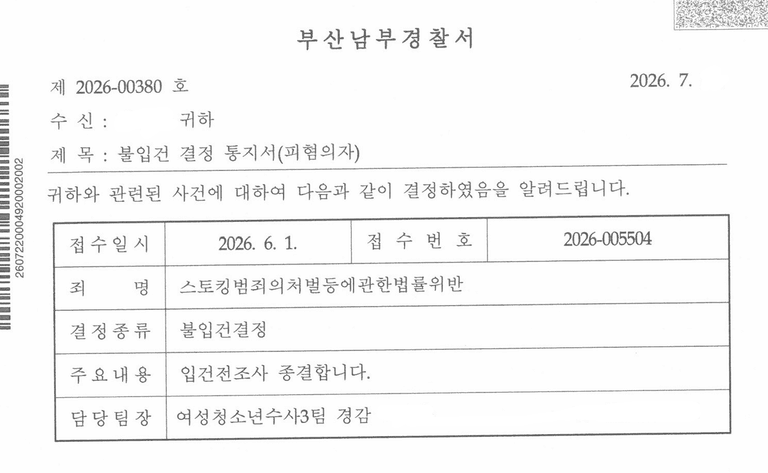
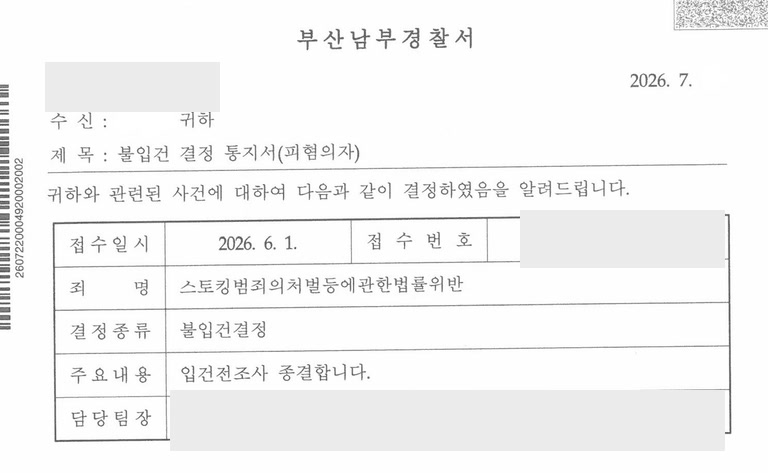
Secure public case board and publish redacted decisions

diff --git a/board.html b/board.html
@@ -16,7 +16,6 @@
 <link rel="preconnect" href="https://fonts.googleapis.com">
 <link rel="preconnect" href="https://fonts.gstatic.com" crossorigin>
 <link href="https://fonts.googleapis.com/css2?family=Noto+Serif+KR:wght@500;600;700&family=Noto+Sans+KR:wght@300;400;500;600;700&family=Playfair+Display:wght@600;700&display=swap" rel="stylesheet">
-<link href="https://cdnjs.cloudflare.com/ajax/libs/quill/1.3.7/quill.snow.min.css" rel="stylesheet">
 <style>
 :root{
   --ink:#111827;--muted:#667085;--line:#e4e7ec;--paper:#fff;--bg:#f6f7f9;
@@ -108,8 +107,8 @@ input:focus,textarea:focus{border-color:var(--gold);box-shadow:0 0 0 3px rgba(20
 .chip.active b{opacity:.85;}
 @media(max-width:720px){
   .board-controls{flex-direction:column;align-items:stretch;}
-  .board-search{max-width:none;}
-  .board-cats{overflow-x:auto;flex-wrap:nowrap;padding-bottom:3px;-webkit-overflow-scrolling:touch;}
+  .board-search{flex:0 0 auto;max-width:none;}
+  .board-cats{width:100%;max-width:100%;min-width:0;overflow-x:auto;flex-wrap:nowrap;padding-bottom:3px;-webkit-overflow-scrolling:touch;}
   .chip{flex:0 0 auto;}
 }
 </style>
@@ -150,7 +149,6 @@ input:focus,textarea:focus{border-color:var(--gold);box-shadow:0 0 0 3px rgba(20
     <div class="body">
       <div class="toolbar">
         <div class="count" id="count">총 0건</div>
-        <button class="write" type="button" id="writeBtn">글쓰기</button>
       </div>
       <div class="board-controls">
         <div class="board-search">
@@ -161,19 +159,6 @@ input:focus,textarea:focus{border-color:var(--gold);box-shadow:0 0 0 3px rgba(20
       </div>
       <div class="list" id="list"></div>
       <div class="empty" id="boardEmpty" style="display:none;border-bottom:0;">검색 결과가 없습니다. 다른 키워드나 분야를 선택해 보세요.</div>
-      <form class="form" id="form">
-        <h2 id="formTitle">글쓰기</h2>
-        <label for="subject">제목</label>
-        <input id="subject" name="subject" type="text" autocomplete="off" placeholder="제목을 입력하세요">
-        <label>내용</label>
-        <div id="editor-container"><div id="editor"></div></div>
-        <div class="char-count" id="charCount">0자</div>
-        <textarea id="content" name="content" style="display:none"></textarea>
-        <div class="form-actions">
-          <button class="secondary" type="button" id="cancelBtn">취소</button>
-          <button class="submit" type="submit">등록</button>
-        </div>
-      </form>
       <p class="seo-copy"><strong>법률사무소 위드윤</strong>은 형사사건, 성범죄, 스토킹, 불법촬영, 이혼·재산분할 등 실제 상담에서 자주 다뤄지는 쟁점을 중심으로 법률정보를 정리합니다.</p>
     </div>
   </section>
@@ -246,24 +231,25 @@ input:focus,textarea:focus{border-color:var(--gold);box-shadow:0 0 0 3px rgba(20
     <li><a href="/blog/drunk-driving-acquittal" style="color:#111a2e;font-size:15px;font-weight:700;text-decoration:none;">음주운전 무죄 판결 — 위법수집증거 배척 실제 사례</a></li>
     <li><a href="/blog/no-charge-5-counts" style="color:#111a2e;font-size:15px;font-weight:700;text-decoration:none;">5개 혐의 동시 고소 — 전부 무혐의(불송치) 방어 성공사례</a></li>
     <li><a href="/blog/sexual-crime-case-results" style="color:#111a2e;font-size:15px;font-weight:700;text-decoration:none;">성범죄 실제 해결사례 — 2심 무죄·강제추행 기소유예</a></li>
+    <li><a href="/blog/special-assault-deferred-prosecution-case" style="color:#111a2e;font-size:15px;font-weight:700;text-decoration:none;">특수상해 — 동종 전력에도 기소유예</a></li>
+    <li><a href="/blog/public-official-stalking-no-booking-case" style="color:#111a2e;font-size:15px;font-weight:700;text-decoration:none;">공무원 스토킹 신고 — 정식 입건 전 종결</a></li>
+    <li><a href="/blog/military-cruelty-non-prosecution-case" style="color:#111a2e;font-size:15px;font-weight:700;text-decoration:none;">군형법상 가혹행위 — 불송치 각하</a></li>
+    <li><a href="/blog/disabled-quasi-rape-no-charge-case" style="color:#111a2e;font-size:15px;font-weight:700;text-decoration:none;">장애인 유사강간 — 혐의없음 불송치</a></li>
+    <li><a href="/blog/juvenile-molestation-no-hearing-case" style="color:#111a2e;font-size:15px;font-weight:700;text-decoration:none;">소년 강제추행·폭행·협박 — 심리불개시</a></li>
+    <li><a href="/blog/cctv-molestation-deferred-prosecution-case" style="color:#111a2e;font-size:15px;font-weight:700;text-decoration:none;">CCTV 강제추행 — 기소유예</a></li>
   </ul>
 </nav>
 </noscript>
 <!-- ▲ SEO 정적 링크 끝 ▲ -->
 
-<script src="https://cdnjs.cloudflare.com/ajax/libs/quill/1.3.7/quill.min.js"></script>
 <script>
 (function(){
   var labels = { case:'성공사례', law:'법률칼럼', press:'언론' };
-  var API = 'https://with-yoon-api.omd0154.workers.dev';
   var params = new URLSearchParams(location.search);
   var current = labels[params.get('type')] ? params.get('type') : 'case';
   var tabs = Array.prototype.slice.call(document.querySelectorAll('.tab'));
   var list = document.getElementById('list');
   var count = document.getElementById('count');
-  var form = document.getElementById('form');
-  var titleInput = document.getElementById('subject');
-  var formTitle = document.getElementById('formTitle');
 
   var pressData = [
     {title:'유령 상간남, 월급으로 위자료 받는 법', date:'2026', source:'로톡뉴스', externalUrl:'https://lawtalknews.co.kr/article/IJ3DZ9BHT4UA', content:''},
@@ -288,10 +274,6 @@ input:focus,textarea:focus{border-color:var(--gold);box-shadow:0 0 0 3px rgba(20
     {title:'CCTV가 본 진실, 지하철 폭행 누명 벗었지만…', date:'2026.03.12', source:'로톡뉴스', externalUrl:'https://lawtalknews.co.kr/article/PYI29IY6C8SN', content:''}
   ];
 
-  function today(){
-    var n = new Date();
-    return n.getFullYear()+'.'+String(n.getMonth()+1).padStart(2,'0')+'.'+String(n.getDate()).padStart(2,'0');
-  }
   function esc(s){
     return String(s||'').replace(/[&<>"']/g,function(c){return{'&':'&amp;','<':'&lt;','>':'&gt;','"':'&quot;',"'":'&#39;'}[c];});
   }
@@ -429,12 +411,11 @@ input:focus,textarea:focus{border-color:var(--gold);box-shadow:0 0 0 3px rgba(20
       .map(function(w){ return w.it; });
   }
 
-  function render(seeds, apiItems){
+  function render(items){
     var titleMap = {case:'성공사례', law:'법률칼럼', press:'언론'};
     document.getElementById('boardTitle').textContent = titleMap[current]||'칼럼';
     tabs.forEach(function(t){ t.classList.toggle('active', t.dataset.type===current); });
-    formTitle.textContent = labels[current]+' 글쓰기';
-    var all = (seeds||[]).concat(apiItems||[]);
+    var all = items || [];
     count.textContent = '총 '+all.length+'건';
     if(!all.length){
       list.innerHTML = '<div class="row head"><div class="cell">번호</div><div class="cell">제목</div><div class="cell date">작성일</div></div><div class="empty">등록된 게시글이 없습니다.</div>';
@@ -448,7 +429,6 @@ input:focus,textarea:focus{border-color:var(--gold);box-shadow:0 0 0 3px rgba(20
         +'<div class="cell">'+(all.length-i)+'</div>'
         +'<div class="cell title">'+esc(item.title)
         +(item.source?'<span class="source">'+esc(item.source)+'</span>':'')
-        +(!item._seed&&item.id?' <button class="del" onclick="event.preventDefault();event.stopPropagation();wyDelete('+item.id+')">삭제</button>':'')
         +'</div>'
         +'<div class="cell date">'+esc(item.date)+'</div>'
         +'</a>';
@@ -462,37 +442,13 @@ input:focus,textarea:focus{border-color:var(--gold);box-shadow:0 0 0 3px rgba(20
     list.innerHTML = '<div class="empty">불러오는 중...</div>';
 
     if(current === 'law'){
-      var lawSeeds = [];
-      var apiDone = false, seedDone = false;
-      var apiItems = [];
-
-      loadLawPosts(function(items){
-        lawSeeds = items;
-        seedDone = true;
-        if(apiDone) render(lawSeeds, apiItems);
-      });
-      fetch(API+'/api/posts?type=law')
-        .then(function(r){ return r.json(); })
-        .then(function(data){ apiItems = Array.isArray(data)?data:[]; apiDone=true; if(seedDone) render(lawSeeds, apiItems); })
-        .catch(function(){ apiDone=true; if(seedDone) render(lawSeeds, []); });
+      loadLawPosts(render);
 
     } else if(current === 'press'){
-      render(pressData, []);
+      render(pressData);
 
     } else {
-      var caseSeeds = [];
-      var caseApiDone = false, caseSeedDone = false;
-      var caseApiItems = [];
-
-      loadCasePosts(function(items){
-        caseSeeds = items;
-        caseSeedDone = true;
-        if(caseApiDone) render(caseSeeds, caseApiItems);
-      });
-      fetch(API+'/api/posts?type='+current)
-        .then(function(r){ return r.json(); })
-        .then(function(data){ caseApiItems = Array.isArray(data)?data:[]; caseApiDone=true; if(caseSeedDone) render(caseSeeds, caseApiItems); })
-        .catch(function(){ caseApiDone=true; if(caseSeedDone) render(caseSeeds, []); });
+      loadCasePosts(render);
     }
   }
 
@@ -500,7 +456,6 @@ input:focus,textarea:focus{border-color:var(--gold);box-shadow:0 0 0 3px rgba(20
     tab.addEventListener('click', function(){
       current = tab.dataset.type;
       history.replaceState(null,'','?type='+current);
-      form.classList.remove('open');
       var s = document.getElementById('boardSearch');
       if(s) s.value = '';
       load();
@@ -509,47 +464,6 @@ input:focus,textarea:focus{border-color:var(--gold);box-shadow:0 0 0 3px rgba(20
 
   var searchEl = document.getElementById('boardSearch');
   if(searchEl) searchEl.addEventListener('input', applyFilters);
-
-  document.getElementById('writeBtn').addEventListener('click', function(){
-    titleInput.value = '';
-    if(window._quill) window._quill.setText('');
-    form.classList.add('open');
-    titleInput.focus();
-  });
-  document.getElementById('cancelBtn').addEventListener('click', function(){
-    form.classList.remove('open');
-  });
-  form.addEventListener('submit', function(e){
-    e.preventDefault();
-    var title = titleInput.value.trim();
-    var html2 = window._quill?window._quill.root.innerHTML.trim():'';
-    var text = window._quill?window._quill.getText().trim():'';
-    if(!title){alert('제목을 입력하세요.');titleInput.focus();return;}
-    if(!text){alert('내용을 입력하세요.');return;}
-    fetch(API+'/api/posts',{
-      method:'POST',
-      headers:{'Content-Type':'application/json'},
-      body:JSON.stringify({type:current,title:title,content:html2,is_html:true,date:today()})
-    }).then(function(r){return r.json();})
-      .then(function(){form.classList.remove('open');load();})
-      .catch(function(){alert('저장 실패. 다시 시도해주세요.');});
-  });
-  window.wyDelete = function(id){
-    if(!confirm('이 글을 삭제하시겠습니까?')) return;
-    fetch(API+'/api/posts/'+id,{method:'DELETE'})
-      .then(function(){load();})
-      .catch(function(){alert('삭제 실패.');});
-  };
-
-  window._quill = new Quill('#editor',{
-    theme:'snow',
-    placeholder:'내용을 입력하세요.',
-    modules:{toolbar:[[{header:[2,3,false]}],['bold','italic','underline'],[{color:[]},{background:[]}],[{list:'ordered'},{list:'bullet'}],[{align:[]}],['blockquote'],['clean']]}
-  });
-  window._quill.on('text-change',function(){
-    var len = window._quill.getText().replace(/\n/g,'').length;
-    document.getElementById('charCount').textContent = len.toLocaleString()+'자';
-  });
 
   load();
 })();

diff --git a/blog/public-official-stalking-no-booking-case.html b/blog/public-official-stalking-no-booking-case.html
@@ -1,2 +1,2 @@
-<!doctype html><html lang="ko"><head><meta charset="utf-8"><meta name="viewport" content="width=device-width,initial-scale=1"><title>공무원 스토킹 불입건 성공사례 | 벌금·당연퇴직 위험 전 종결 | 위드윤</title><meta name="description" content="이혼한 전 배우자의 스토킹 신고를 받은 공무원 의뢰인이 변호인 중재와 재발방지 약속으로 정식 입건 전 사건을 종결한 성공사례입니다."><meta name="robots" content="index,follow"><link rel="canonical" href="https://with-yoon-law.com/blog/public-official-stalking-no-booking-case"><meta property="og:type" content="article"><meta property="og:title" content="공무원 스토킹 불입건｜신분상 위험 전 사건 종결"><meta property="og:description" content="직접 연락을 중단하고 변호인이 합의를 중재해 입건 전 종결한 실제 사례"><meta property="og:image" content="https://with-yoon-law.com/images/cases/public-official-stalking-no-booking.jpg"><link rel="preconnect" href="https://fonts.googleapis.com"><link rel="preconnect" href="https://fonts.gstatic.com" crossorigin><link href="https://fonts.googleapis.com/css2?family=Noto+Sans+KR:wght@400;500;700;900&family=Noto+Serif+KR:wght@600;700&display=swap" rel="stylesheet"><link rel="stylesheet" href="/case-article.css"><script type="application/ld+json">{"@context":"https://schema.org","@type":"Article","headline":"공무원 스토킹 불입건 성공사례｜벌금·당연퇴직 위험 전 사건 종결","datePublished":"2026-09-10","dateModified":"2026-09-11","author":{"@type":"Person","name":"윤성호"},"publisher":{"@type":"LegalService","name":"법률사무소 위드윤"},"image":"https://with-yoon-law.com/images/cases/public-official-stalking-no-booking.jpg","mainEntityOfPage":"https://with-yoon-law.com/blog/public-official-stalking-no-booking-case"}</script></head><body>
+<!doctype html><html lang="ko"><head><meta charset="utf-8"><meta name="viewport" content="width=device-width,initial-scale=1"><title>공무원 스토킹 불입건 성공사례 | 정식 입건 전 종결 | 위드윤</title><meta name="description" content="이혼한 전 배우자의 스토킹 신고를 받은 공무원 의뢰인이 변호인 중재와 재발방지 약속으로 정식 입건 전 사건을 종결한 성공사례입니다."><meta name="robots" content="index,follow"><link rel="canonical" href="https://with-yoon-law.com/blog/public-official-stalking-no-booking-case"><meta property="og:type" content="article"><meta property="og:title" content="공무원 스토킹 불입건｜정식 입건 전 사건 종결"><meta property="og:description" content="직접 연락을 중단하고 변호인이 합의를 중재해 입건 전 종결한 실제 사례"><meta property="og:image" content="https://with-yoon-law.com/images/cases/public-official-stalking-no-booking.jpg"><link rel="preconnect" href="https://fonts.googleapis.com"><link rel="preconnect" href="https://fonts.gstatic.com" crossorigin><link href="https://fonts.googleapis.com/css2?family=Noto+Sans+KR:wght@400;500;700;900&family=Noto+Serif+KR:wght@600;700&display=swap" rel="stylesheet"><link rel="stylesheet" href="/case-article.css"><script type="application/ld+json">{"@context":"https://schema.org","@type":"Article","headline":"공무원 스토킹 불입건 성공사례｜정식 입건 전 사건 종결","datePublished":"2026-09-10","dateModified":"2026-09-12","author":{"@type":"Person","name":"윤성호"},"publisher":{"@type":"LegalService","name":"법률사무소 위드윤"},"image":"https://with-yoon-law.com/images/cases/public-official-stalking-no-booking.jpg","mainEntityOfPage":"https://with-yoon-law.com/blog/public-official-stalking-no-booking-case"}</script></head><body>
 <nav class="top"><div class="top-in"><a class="brand" href="/"><span class="mark">W</span><span><strong>LAW OFFICE WITH YOON</strong><span>법률사무소 위드윤</span></span></a><div class="actions"><a class="btn" href="/board?type=case">성공사례</a><a class="btn gold" href="tel:010-9491-1567">상담전화</a></div></div></nav><main class="page"><div class="crumb"><a href="/">홈</a> · <a href="/board?type=case">성공사례</a> · 스토킹</div><article class="article"><header class="hero"><span class="eyebrow">스토킹 성공사례 · 불입건</span><h1>공무원 스토킹 신고<br><em>정식 입건 전 종결</em></h1><p class="lead">형사처벌과 신분상 불이익이 함께 문제 될 수 있던 사건에서 직접 연락을 차단하고 변호인이 합의를 중재했습니다.</p><div class="meta"><span>담당 윤성호 변호사</span><span>법률사무소 위드윤</span><span>2026.09.10</span></div></header><div class="facts"><div class="fact"><small>혐의</small><strong>스토킹처벌법 위반</strong></div><div class="fact"><small>의뢰인</small><strong>현직 공무원</strong></div><div class="fact"><small>최종 결과</small><strong>불입건 종결</strong></div></div><div class="content"><section class="section"><div class="label">CASE OVERVIEW</div><h2>사건 개요</h2><div class="case-summary"><p>공무원인 의뢰인은 이혼한 전 배우자에게 반복적으로 연락했다는 이유로 스토킹 신고를 당했습니다. 의뢰인은 사과와 합의를 원했지만 <strong>신고 이후 직접 연락하면 추가 스토킹이나 2차 피해로 평가될 수 있는 상황</strong>이었습니다.</p></div></section><section class="section"><div class="label">KEY ISSUE</div><h2>처벌보다 먼저 공무원 신분을 살폈습니다</h2><p>스토킹 사건은 연락 횟수뿐 아니라 상대방의 거부 의사, 반복성, 불안감 유발 여부와 신고 이후 행동을 함께 판단합니다. 공무원은 형사처분의 종류와 수위에 따라 징계나 신분상 불이익이 뒤따를 수 있으므로 입건 전 단계부터 대응 방향을 정해야 했습니다.</p></section><section class="section"><div class="label">DEFENSE STRATEGY</div><h2>위드윤의 대응</h2><ul class="strategy"><li><b>1</b><span><strong>직접 연락 즉시 중단</strong><span>의뢰인이 감정적으로 연락하거나 찾아가는 행동을 하지 않도록 하고 추가 위험을 차단했습니다.</span></span></li><li><b>2</b><span><strong>변호인 중재</strong><span>수사관을 통해 사과와 재발 방지 의사를 전달하고 전 배우자의 의사를 차분하게 확인했습니다.</span></span></li><li><b>3</b><span><strong>입건 전 의견 정리</strong><span>합의금 없이 용서한다는 피해자의 의사와 재발 방지 약속을 수사기관에 정리해 전달했습니다.</span></span></li></ul></section><section class="section"><div class="result"><small>FINAL RESULT</small><h2>입건 전 조사 종결</h2><p>경찰은 사건 경위와 피해자의 의사, 재발 방지 조치를 종합해 의뢰인을 정식 입건하지 않고 사건을 종결했습니다.</p></div></section><section class="section"><div class="label">OFFICIAL DOCUMENT</div><h2>실제 불입건 결정 통지서</h2><figure class="document"><div class="document-frame"><img src="/images/cases/public-official-stalking-no-booking.jpg" alt="공무원 스토킹 불입건 결정 통지서" width="768" height="473" loading="lazy"></div><figcaption>실제 사건 문서이며 식별 가능한 개인정보는 가렸습니다.</figcaption></figure><div class="note">문서에서 죄명 ‘스토킹범죄의처벌등에관한법률위반’과 결정종류 ‘불입건결정’을 확인할 수 있습니다.</div></section><section class="section"><div class="label">POINT</div><h2>신고 뒤 연락을 계속하지 마십시오</h2><p>사과하려는 의도라도 상대방이 원하지 않는 연락은 사건을 악화시킬 수 있습니다. 신고 사실을 알게 됐다면 연락을 멈추고 기존 메시지와 통화기록을 보존한 뒤 변호인을 통해 소통하는 것이 안전합니다.</p></section></div><aside class="cta"><div><h2>공무원 형사사건, 신분 문제까지 함께 봅니다</h2><p>대표변호사가 직접 사실관계와 대응 순서를 검토합니다.</p></div><div class="cta-links"><a class="btn gold" href="tel:010-9491-1567">전화 상담</a><a class="btn primary" href="https://pf.kakao.com/_CNtxjX">카카오톡 상담</a></div></aside></article></main><footer class="foot"><strong>법률사무소 위드윤</strong><br>서울 서초구 서초대로 270 서보빌딩 602호 · 광고책임변호사 윤성호<br><a href="/board?type=case">성공사례 전체 보기</a></footer></body></html>

diff --git a/board_detail.html b/board_detail.html
@@ -119,7 +119,6 @@ h1{font-family:'Noto Serif KR',serif;font-size:clamp(28px,4vw,42px);line-height:
   var listUrl = 'board.html' + (labels[type] ? '?type=' + encodeURIComponent(type) : '');
   document.getElementById('listTop').href = listUrl;
 
-  var API = 'https://with-yoon-api.omd0154.workers.dev';
 
   // seedData (board와 동일)
   var seedData = {
@@ -135,18 +134,7 @@ h1{font-family:'Noto Serif KR',serif;font-size:clamp(28px,4vw,42px);line-height:
   };
 
   function getPost(cb){
-    // DB 글 (id 있으면)
-    if(id){
-      fetch(API + '/api/posts?type=' + type)
-        .then(function(r){ return r.json(); })
-        .then(function(data){
-          var found = (data||[]).find(function(p){ return String(p.id) === id; });
-          if(found){ cb(Object.assign({}, found, {typeLabel: labels[type]})); return; }
-          fallback(cb);
-        }).catch(function(){ fallback(cb); });
-    } else {
-      fallback(cb);
-    }
+    fallback(cb);
   }
   function fallback(cb){
     // URL 파라미터로 seed 글 표시
